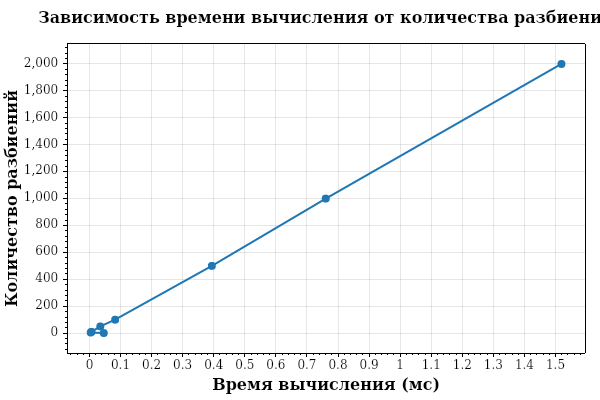
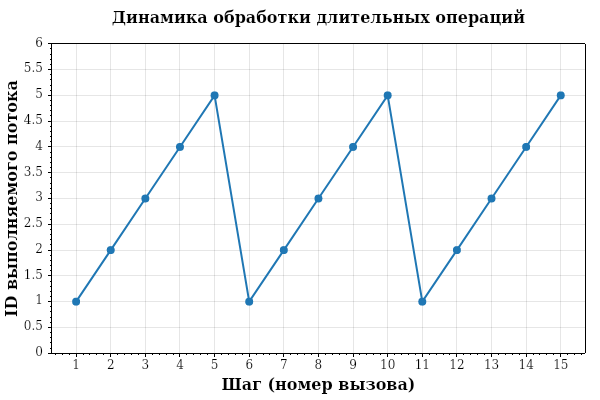
Выполнено 19 задание 4 недели практики. Ветка task19 создана из ветки task18. Добавлен класс TestCommand, реализующий длительную операцию. Создано консольное приложение task19Command, выводящее график и отчет о корректном выполнении длительных операций планировщиком. Xunit-тесты дополнены 1 тестом д

diff --git a/task19Console/Program.cs b/task19Console/Program.cs
@@ -1,117 +1,97 @@
-using task18;
+using task19;
 using ScottPlot;
 using System.Diagnostics;
-namespace task18Console;
+
+namespace task19Console;
 
 class Program
 {
-    private class TestLongCommand: ICommand
-    {
-        private readonly int Id;
-        private readonly IScheduler Scheduler;
-        private int Step = 0;
-        private readonly int MaxStep;
-
-        public TestLongCommand (int id, IScheduler scheduler, int maxStep)
-        {
-            Id = id;
-            Scheduler = scheduler;
-            MaxStep = maxStep;
-        }
-
-        public void Execute()
-        {
-            Step++;
-
-            double mul = Math.Sqrt(Step);
-
-            if (Step < MaxStep)
-                Scheduler.Add(this);
-        }
-    }
-
     static void Main()
     {
-        int [] steps = {1, 5, 10, 50, 100, 500, 1000, 2000 };
-        double [] AverageResults = new double [steps.Length];
+        ServerThread server = new ServerThread();
+        IScheduler scheduler = server.Scheduler;
+        string output;
 
-        for (int i = 0; i < steps.Length; i++)
+        var origin = Console.Out;
+
+        using (StringWriter line = new StringWriter())
         {
-            int step = steps[i];
-            double[] NumberOfLaunches = new double[5];
+            Console.SetOut(line);
 
-            for (int n = 0; n < NumberOfLaunches.Length; n++)
+            for (int i = 1; i <= 5; i++)
             {
-                RoundRobinScheduler scheduler = new RoundRobinScheduler();
-
-                for (int t = 0; t < 20; t++)
-                {
-                    scheduler.Add(new TestLongCommand(t, scheduler, step));
-                }
-
-                Stopwatch stopwatch = Stopwatch.StartNew();
-
-                while (scheduler.HasCommand())
-                {
-                    ICommand command = scheduler.Select();
-                    command.Execute();
-                }
-                
-                stopwatch.Stop();
-                NumberOfLaunches[n] = stopwatch.Elapsed.TotalMilliseconds;
+                server.Add(new TestCommand(i, scheduler));
             }
 
-            AverageResults[i] = NumberOfLaunches.Average();
-            Console.WriteLine($"Количество разбиений: {step} | Средний результат: {AverageResults[i]}");
+            server.StartCycle();
+
+            Thread.Sleep(300);
+
+            server.HardStopHepler();
+
+            output = line.ToString();
         }
-        Console.WriteLine();
 
-        double MinResult = AverageResults.Min();
-        int OptimalNum = steps[Array.IndexOf(AverageResults, MinResult)];
-        Console.WriteLine($"Оптимальное количество разбиений: {OptimalNum} со временем {MinResult}.");
+        Console.SetOut(origin);
+        
+        Console.Write(output);
 
-        double[] OX = AverageResults;
-        double[] OY = steps.Select(t => (double)t).ToArray();
+        List<double> ID = new List<double>();
+        string[] lines = output.Split(new [] {Environment.NewLine}, StringSplitOptions.RemoveEmptyEntries);
+
+        foreach (string Line in lines)
+        {
+            if (Line.StartsWith("Поток"))
+            {
+                string [] words = Line.Split(' ');
+
+                if (words.Length > 1 && double.TryParse(words[1], out double id))
+                ID.Add(id);
+            }
+        }
 
         Plot plot = new();
-        var scatter = plot.Add.Scatter(OX, OY);
-        scatter.LineWidth = 2;
-        scatter.MarkerSize = 8;
-        plot.Title("Зависимость времени вычисления от количества разбиений");
-        plot.XLabel("Время вычисления (мс)");
-        plot.YLabel("Количество разбиений");
+        if (ID.Count > 0)
+        {
+            double[] OX = Enumerable.Range(1, ID.Count).Select(x => (double)x).ToArray();
+            double[] OY = ID.ToArray();
+
+            var scatter = plot.Add.Scatter(OX, OY);
+            scatter.LineWidth = 2;
+            scatter.MarkerSize = 8;
+        }
+
+        plot.Title("Динамика обработки длительных операций");
+        plot.XLabel("Шаг (номер вызова)");
+        plot.YLabel("ID выполняемого потока");
+        plot.Axes.SetLimitsY(0, 6);
 
         plot.SavePng("graph.png", 600, 400);
 
         string reportPath = "report.txt";
         using (StreamWriter streamWriter = new StreamWriter(reportPath))
         {
-            streamWriter.WriteLine("Отчет о реализации планировщика и зависимости времени выполнения команд от количества разбиений");
+            streamWriter.WriteLine("Отчет о динамике обработке длительных операций");
             streamWriter.WriteLine();
             streamWriter.WriteLine("ИСХОДНЫЕ ДАННЫЕ:");
-            streamWriter.WriteLine("Реализован планировщик на основе стратегии Round Robbin;");
-            streamWriter.WriteLine("Реализован класс команд TestLongCommand, реализующих интерфейс ICommand,");
-            streamWriter.WriteLine("при этом такие команды не могут выполнить всю работу за один вызов метода Execute;");
+            streamWriter.WriteLine("Создан класс длительных команд TestCommand.");
             streamWriter.WriteLine();
             streamWriter.WriteLine("ТЕСТИРОВАНИЕ:");
-            streamWriter.WriteLine("Создаем массив с различным количеством разбиений:");
-            streamWriter.WriteLine("steps = {1, 5, 10, 50, 100, 500, 1000, 2000 }");
-            streamWriter.WriteLine("Для каждого отдельного количества разбиений создается 20 экземпляров команд,");
-            streamWriter.WriteLine("каждая тестируется по 5 раз и выводится среднее время работы.");
-            streamWriter.WriteLine("Среди всего количества разбиений находим оптимальное по времени.");
+            streamWriter.WriteLine("Запущено 5 экземпляров public-класса TestCommand, каждый выполнен по 3 раза.");
             streamWriter.WriteLine();
-            streamWriter.WriteLine("РЕЗУЛЬТАТЫ:");
-            streamWriter.WriteLine("Данные для каждого разбиения:");
-            for (int i = 0; i < AverageResults.Length; i++)
+            streamWriter.WriteLine("РЕЗУЛЬТАТЫ ВЫПОЛНЕНИЯ КОМАНД:");
+            for (int i = 0; i < ID.Count; i++)
             {
-               streamWriter.WriteLine($"Количество разбиений: {steps[i]} | Средний результат: {AverageResults[i]}"); 
+                streamWriter.WriteLine($"Вызов: {i + 1} | Выполненная команда (ID): {ID[i]}");
             }
+
             streamWriter.WriteLine();
             streamWriter.WriteLine("ВЫВОД:");
-            streamWriter.WriteLine($"Оптимальное количество разбиений: {OptimalNum} со временем {MinResult}.");
-            streamWriter.WriteLine("Пояснение: При увеличении числа разбиений (например, до 2000) резко возрастают накладные");
-            streamWriter.WriteLine("расходы процессора на постоянное извлечение и добавление задач обратно в планировщик,");
-            streamWriter.WriteLine("из-за чего общее время выполнения существенно увеличивается.");
+            streamWriter.WriteLine("Анализ хронологии и сгенерированного графика graph.png показывает регулярное,");
+            streamWriter.WriteLine("последовательное чередование выполнения потоков (1, 2, 3, 4, 5, 1, 2, 3, 4, 5...).");
+            streamWriter.WriteLine("Это доказывает, что длительные команды успешно дробятся на кванты времени и отдают");
+            streamWriter.WriteLine("управление планировщику, обеспечивая справедливое выполнение");
+            streamWriter.WriteLine("всех задач из очереди. Блокировок и простоев процессора не обнаружено.");
         }
     }
 }

diff --git a/task19tests/ServerThreadTests.cs b/task19tests/ServerThreadTests.cs
@@ -1,6 +1,6 @@
 using System.Threading;
 using Xunit;
-using task18;
+using task19;
 namespace task18tests;
 
 public class ServerThreadTests
@@ -156,5 +156,35 @@ public class ServerThreadTests
         };
 
         Assert.Equal(ExpectedOrder, log);
+    }
+
+    [Fact]
+    public void TestCommand_ShouldExecuteExactlyThreeTimesAndStop()
+    {
+        ServerThread server = new ServerThread();
+        IScheduler scheduler = server.Scheduler;
+
+        var testCommand = new TestCommand(1, scheduler);
+
+        scheduler.Add(testCommand);
+
+        //Всего должно быть 3 вызова, после чего команда уходит из планировщика.
+
+        //1 вызов
+        ICommand command1 = scheduler.Select();
+        command1.Execute();
+        Assert.True(scheduler.HasCommand());
+
+        //2 вызов
+        ICommand command2 = scheduler.Select();
+        command2.Execute();
+        Assert.True(scheduler.HasCommand());
+
+        //3 вызов
+        ICommand command3 = scheduler.Select();
+        command3.Execute();
+
+        //Ушла из планировщика
+        Assert.False(scheduler.HasCommand());
     }
 }

diff --git a/task19/TestCommand.cs b/task19/TestCommand.cs
@@ -1,0 +1,24 @@
+namespace task19;
+
+public class TestCommand: ICommand
+{
+    private readonly int Id;
+    private readonly IScheduler Scheduler;
+    private int Counter = 0;
+    private readonly int MaxStep = 3;
+
+    public TestCommand(int id, IScheduler scheduler)
+    {
+        Id = id;
+        Scheduler = scheduler;
+    }
+
+    public void Execute()
+    {
+        Counter++;
+        Console.WriteLine($"Поток {Id} вызов {Counter}");
+
+        if (Counter < MaxStep)
+        Scheduler.Add(this);
+    }
+}

diff --git a/task19/HardStop.cs b/task19/HardStop.cs
@@ -1,8 +1,7 @@
 using System.Threading;
 using System.Windows.Input;
-using task18;
 
-namespace task18;
+namespace task19;
 
 public class HardStop: ICommand
 {

diff --git a/task19/ServerThread.cs b/task19/ServerThread.cs
@@ -1,7 +1,7 @@
 using System.Collections.Concurrent;
 using System.Threading;
 
-namespace task18;
+namespace task19;
 
 public class ServerThread
 {

diff --git a/task19/SoftStop.cs b/task19/SoftStop.cs
@@ -1,6 +1,6 @@
 using System.Threading;
 
-namespace task18;
+namespace task19;
 
 public class SoftStop: ICommand
 {

diff --git a/task19/RoundRobinScheduler.cs b/task19/RoundRobinScheduler.cs
@@ -1,4 +1,4 @@
-namespace task18;
+namespace task19;
 
 public class RoundRobinScheduler : IScheduler
 {

diff --git a/task19/ICommand.cs b/task19/ICommand.cs
@@ -1,4 +1,4 @@
-namespace task18;
+namespace task19;
 
 public interface ICommand
 {

diff --git a/task19/ExceptionHandler.cs b/task19/ExceptionHandler.cs
@@ -1,4 +1,4 @@
-namespace task18;
+namespace task19;
 
 public static class ExceptionHandler
 {

diff --git a/task19/IScheduler.cs b/task19/IScheduler.cs
@@ -1,4 +1,4 @@
-namespace task18;
+namespace task19;
 
 public interface IScheduler
 {
